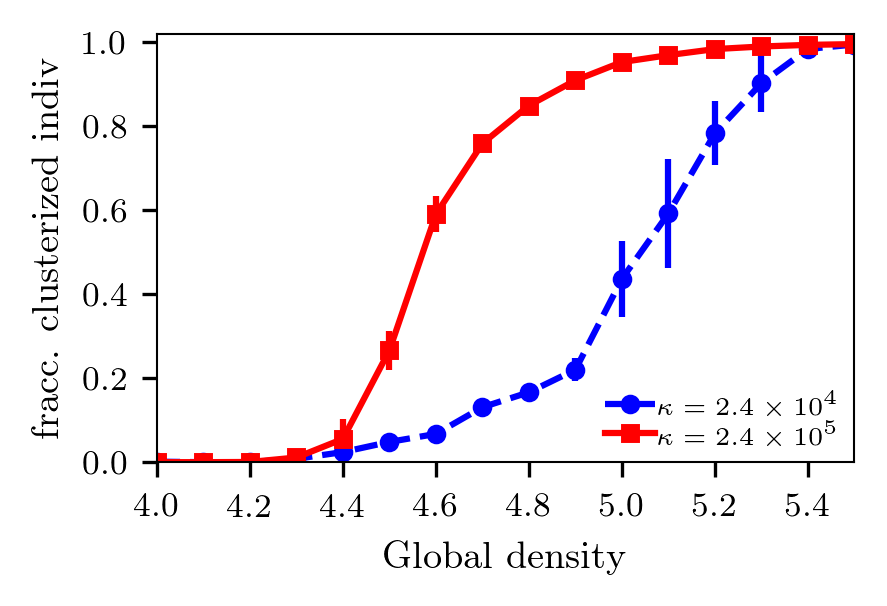
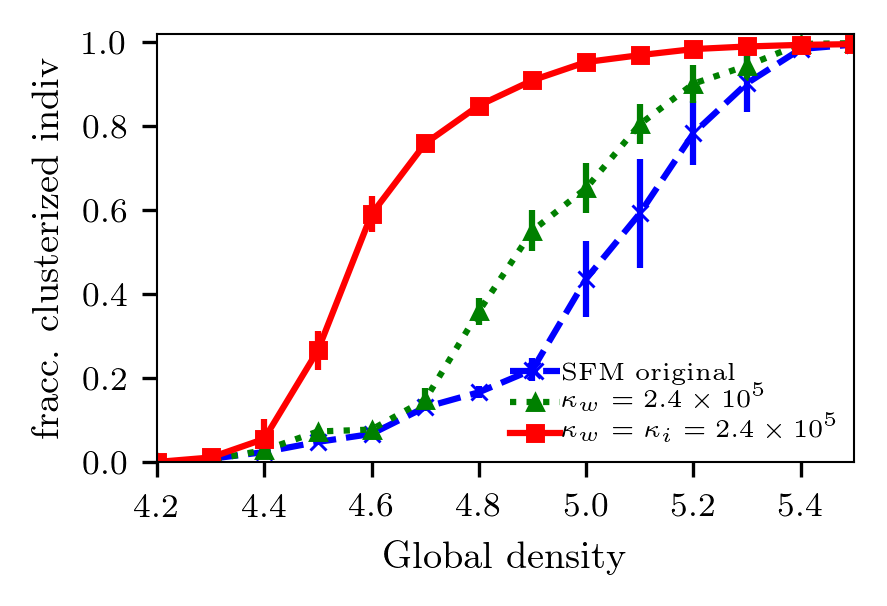
update fic

diff --git a/plots/fic/fic.py b/plots/fic/fic.py
@@ -44,17 +44,31 @@ density_kx10 = data_kx10[:,0]
 fic_kx10 = data_kx10[:,1] 
 err_kx10 = data_kx10[:,2] 
 
+data_kwx10 = np.genfromtxt('density_fic_w22m_kwx10.txt', delimiter = ' ')
+density_kwx10 = data_kwx10[:,0] 
+fic_kwx10 = data_kwx10[:,1] 
+err_kwx10 = data_kwx10[:,2] 
+
+#data_kix10 = np.genfromtxt('density_fic_w22m_kix10.txt', delimiter = ' ')
+#density_kix10 = data_kwx10[:,0] 
+#fic_kix10 = data_kix10[:,1] 
+#err_kix10 = data_kix10[:,2] 
+
 
 ###  PLOT  ###
 
-#fig, ax1 = plt.subplots()
-plt.plot(density_kroiginal,fic_koriginal,'b--o',mew=0.7,markersize=4,label='$\\kappa = 2.4 \\times 10^{4}$') 
+
+plt.plot(density_kroiginal,fic_koriginal,'b--x',mew=0.7,markersize=4,label='SFM original') 
 plt.errorbar(density_kroiginal,fic_koriginal,err_koriginal,linestyle='none',fmt='none',color='none',ecolor='b') 
 
-#fig, ax2 = plt.subplots()
-plt.plot(density_kx10,fic_kx10,'r-s',mew=0.7,markersize=4,label='$\\kappa = 2.4 \\times 10^{5}$') 
-plt.errorbar(density_kx10,fic_kx10,err_kx10,linestyle='none',fmt='none',color='none',ecolor='r') 
+plt.plot(density_kwx10,fic_kwx10,'g:^',mew=0.7,markersize=4,label='$\\kappa_w = 2.4\\times 10^{5}$') 
+plt.errorbar(density_kwx10,fic_kwx10,err_kwx10,linestyle='none',fmt='none',color='none',ecolor='g') 
 
+#plt.plot(density_kix10,fic_kix10,'y-.o',mew=0.7,markersize=4,label='$\\kappa_i =2.4  \\times 10^{5}$') 
+#plt.errorbar(density_kix10,fic_kix10,err_kwx10,linestyle='none',fmt='none',color='none',ecolor='y') 
+
+plt.plot(density_kx10,fic_kx10,'-rs',mew=0.7,markersize=4,label='$\\kappa_w=\\kappa_i = 2.4 \\times 10^{5} $') 
+plt.errorbar(density_kx10,fic_kx10,err_kx10,linestyle='none',fmt='none',color='none',ecolor='r') 
 
 
 pylab.legend()
@@ -62,7 +76,7 @@ pylab.xticks(np.arange(4.0,5.7,0.2))
 plt.xlabel('Global density ')
 plt.ylabel('fracc.  clusterized indiv')
 plt.ylim(0.0, 1.02)
-plt.xlim(4.0,5.5)
+plt.xlim(4.2,5.5)
 #lgd=plt.legend(numpoints=1,handlelength=0.8) 
 plt.legend(frameon=False,loc='lower right',labelspacing=0.1,borderpad=0.1,handletextpad=0.1,fontsize=6,numpoints=1)
 pylab.savefig('fracc_clusteriz_vs_density.png', format='png', dpi=300, bbox_inches='tight')
